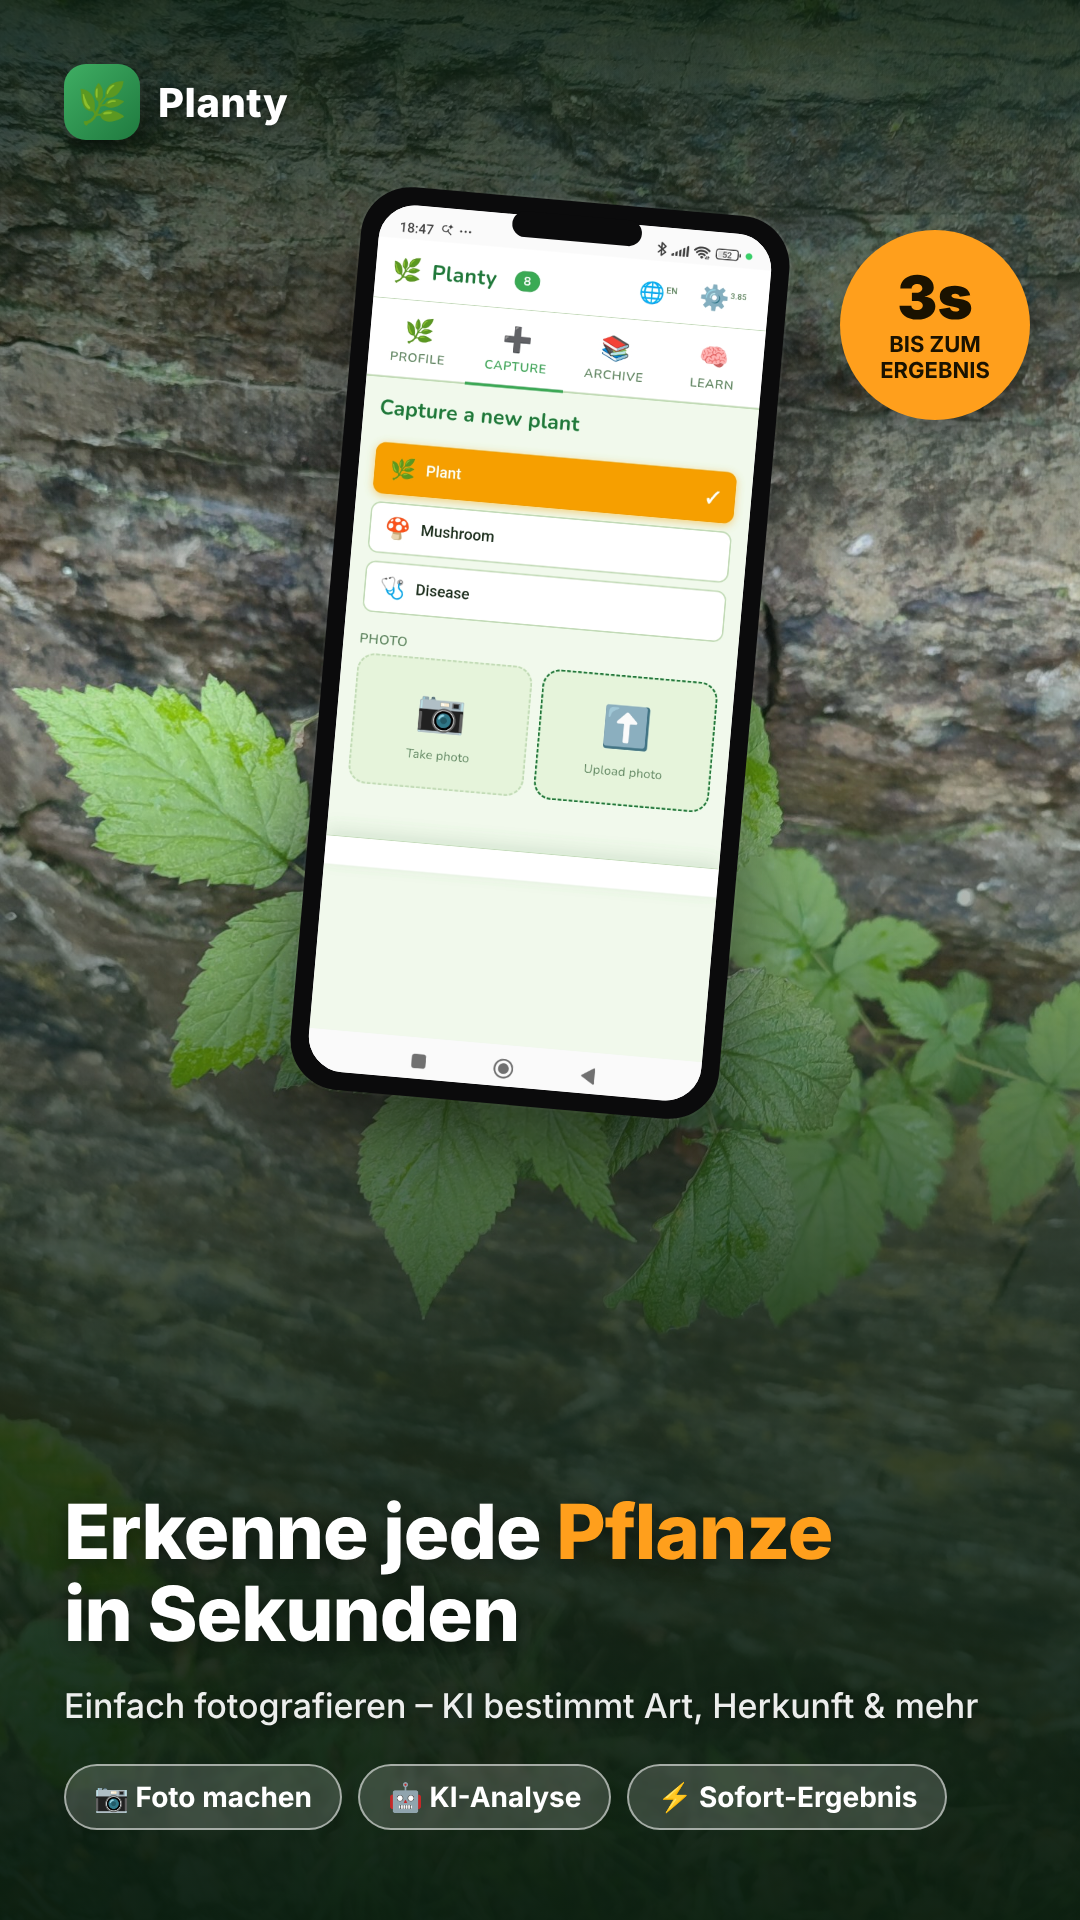
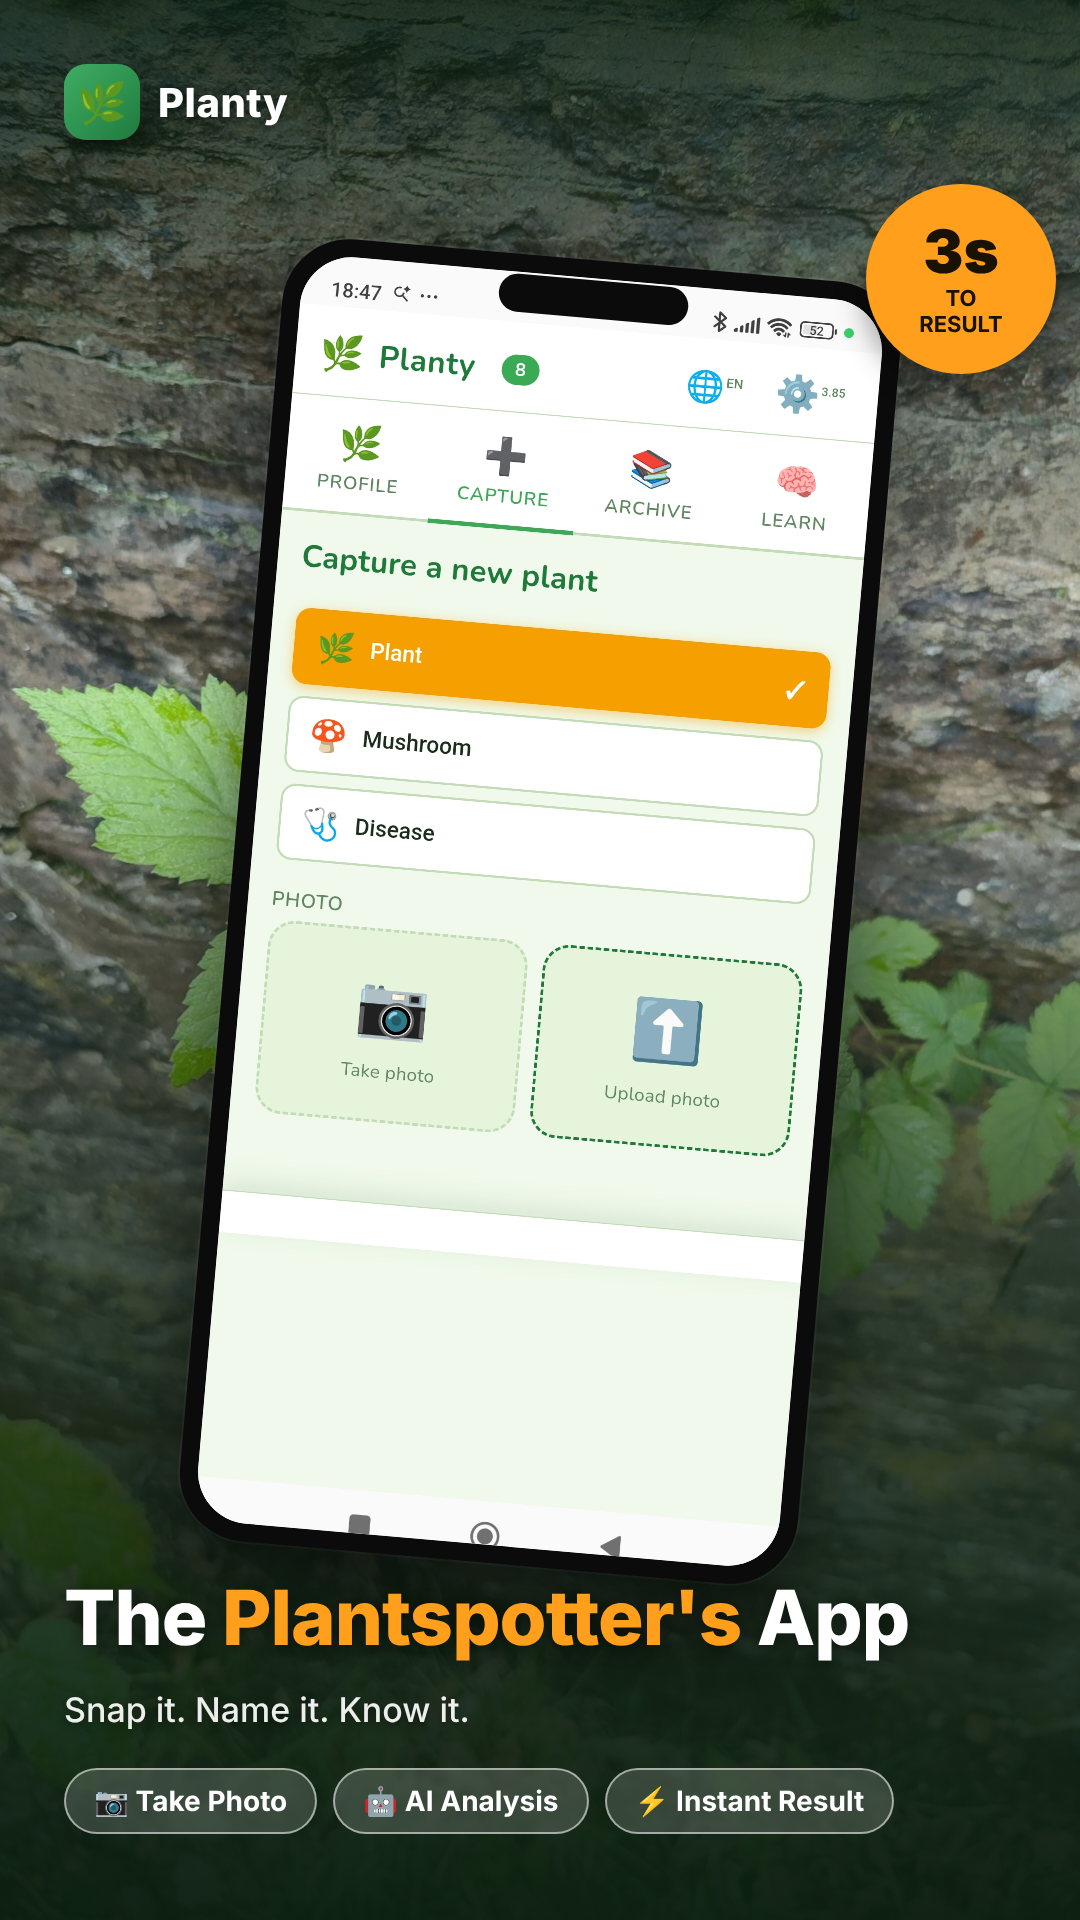
Switch Play Store screenshots to English-only, enlarge device mockups
All 6 slides now in English (hero, three categories, AI fun facts,
mushroom safety, learning, progress). Phones use the larger .phone.big
frame to reduce wasted canvas space. Cropped the daisy/fly-agaric
detail screenshots to remove dialog background bleed-through.

Claude-Session: https://claude.ai/code/session_011nMfd9tr4t6ftk12uzPdFg

diff --git a/store-screenshots/index.html b/store-screenshots/index.html
@@ -189,56 +189,56 @@
   </div>
 </div>
 
-<!-- SLIDE 2 — 3 KATEGORIEN -->
+<!-- SLIDE 2 — 3 CATEGORIES -->
 <div class="slide" id="s2" style="background:linear-gradient(160deg,#1f7a3f 0%, #0f4a24 100%);">
   <div class="brand">
     <div class="logo">🌿</div>
     <div class="name">Planty</div>
   </div>
-  <div style="position:absolute; top:200px; left:64px; right:64px; z-index:4;">
-    <div class="headline" style="font-size:66px;">Eine App.<br><span class="hl">Drei</span> Experten-Bereiche.</div>
+  <div style="position:absolute; top:160px; left:64px; right:64px; z-index:4;">
+    <div class="headline" style="font-size:68px;">One App.<br><span class="hl">Three</span> Expert Areas.</div>
   </div>
-  <div class="catwrap">
-    <div class="catcard">
+  <div class="catwrap" style="margin-top:380px;">
+    <div class="catcard" style="height:980px;">
       <img src="assets/leaves-rock.jpg" style="object-position:center 35%;">
       <div class="catscrim"></div>
-      <div class="cattag"><span class="emoji">🌿</span><span class="label">Pflanzen</span></div>
+      <div class="cattag"><span class="emoji">🌿</span><span class="label">Plants</span></div>
     </div>
-    <div class="catcard">
+    <div class="catcard" style="height:980px;">
       <img src="assets/mushroom-cluster.jpg" style="object-position:center 40%;">
       <div class="catscrim"></div>
-      <div class="cattag"><span class="emoji">🍄</span><span class="label">Pilze</span></div>
+      <div class="cattag"><span class="emoji">🍄</span><span class="label">Mushrooms</span></div>
     </div>
-    <div class="catcard">
+    <div class="catcard" style="height:980px;">
       <img src="assets/mushroom-small.jpg" style="object-position:center 40%;">
       <div class="catscrim"></div>
-      <div class="cattag"><span class="emoji">🩺</span><span class="label">Krankheiten</span></div>
+      <div class="cattag"><span class="emoji">🩺</span><span class="label">Diseases</span></div>
     </div>
   </div>
-  <div class="headline-block" style="bottom:80px;">
-    <div class="sub" style="font-size:36px; font-weight:700;">Bestimmen, lernen &amp; archivieren –<br>alles an einem Ort</div>
+  <div class="headline-block" style="bottom:70px;">
+    <div class="sub" style="font-size:36px; font-weight:700;">Identify, learn &amp; track —<br>all in one place</div>
   </div>
 </div>
 
-<!-- SLIDE 3 — KI + FUN FACTS -->
+<!-- SLIDE 3 — AI + FUN FACTS -->
 <div class="slide" id="s3" style="background:linear-gradient(160deg,#c0442c 0%, #7a1f16 100%);">
   <div class="brand">
     <div class="logo">🌿</div>
     <div class="name">Planty</div>
   </div>
-  <div class="content" style="justify-content:flex-start; align-items:center; padding-top:170px;">
-    <div class="phone small phone-tilt-l">
+  <div class="content" style="justify-content:flex-start; align-items:center; padding-top:252px;">
+    <div class="phone big phone-tilt-l">
       <div class="notch"></div>
-      <div class="screen"><img src="assets/scr-flypilz.jpg"></div>
+      <div class="screen"><img src="assets/scr-daisy-card.jpg"></div>
     </div>
   </div>
-  <div class="headline-block" style="bottom:90px;">
-    <div class="headline">Mehr als nur<br>ein <span class="hl">Name</span></div>
-    <div class="sub">Botanische Illustrationen, spannende Fun Facts und Bestimmungsmerkmale von der KI erklärt</div>
+  <div class="headline-block" style="bottom:86px;">
+    <div class="headline">More Than<br>Just a <span class="hl">Name</span></div>
+    <div class="sub">Botanical illustrations, fun facts &amp; detailed identification features — explained by AI</div>
   </div>
 </div>
 
-<!-- SLIDE 4 — SICHERHEIT -->
+<!-- SLIDE 4 — SAFETY -->
 <div class="slide" id="s4" style="background:#2a1f12;">
   <img class="bg-photo" src="assets/mushroom-cluster.jpg" style="object-position:center 45%;">
   <div class="scrim scrim-top"></div>
@@ -248,56 +248,52 @@
     <div class="name">Planty</div>
   </div>
   <div class="headline-block" style="bottom:120px;">
-    <div class="headline">Sicher Pilze<br>sammeln <span class="hl">lernen</span></div>
-    <div class="sub">Klare Warnhinweise bei Verwechslungsgefahr – für mehr Sicherheit beim Sammeln</div>
+    <div class="headline">Forage Mushrooms<br>with <span class="hl">Confidence</span></div>
+    <div class="sub">Clear safety warnings when confusion risk is high — because mushroom hunting deserves caution</div>
     <div class="warn-box">
-      <div class="wtitle">⚠ Nur Bestimmungswahrscheinlichkeit</div>
-      <div class="wtext">Keine Essensempfehlung! Bei Zweifel immer Pilzsachverständige konsultieren.</div>
+      <div class="wtitle">⚠ Identification Probability Only</div>
+      <div class="wtext">Not a food recommendation! When in doubt, always consult a mushroom expert.</div>
     </div>
   </div>
 </div>
 
-<!-- SLIDE 5 — LERNEN / GAMIFICATION -->
+<!-- SLIDE 5 — LEARNING / GAMIFICATION -->
 <div class="slide" id="s5" style="background:linear-gradient(160deg,#2a8f54 0%, #0f4a24 100%);">
   <div class="brand">
     <div class="logo">🌿</div>
     <div class="name">Planty</div>
   </div>
-  <div class="content" style="justify-content:flex-start; align-items:center; padding-top:210px;">
-    <div class="phone small phone-tilt-r">
+  <div class="content" style="justify-content:flex-start; align-items:center; padding-top:252px;">
+    <div class="phone big phone-tilt-r">
       <div class="notch"></div>
       <div class="screen"><img src="assets/scr-learn.jpg"></div>
     </div>
   </div>
-  <div class="badge-circle" style="top:250px; left:50px; background:#fff; color:var(--green-dark);">
+  <div class="badge-circle" style="top:184px; left:24px; background:#fff; color:var(--green-dark);">
     <div class="num">🔥2</div>
-    <div class="lbl">TAGE<br>STREAK</div>
+    <div class="lbl">DAY<br>STREAK</div>
   </div>
-  <div class="headline-block" style="bottom:90px;">
-    <div class="headline">Werde zum<br><span class="hl">Pflanzen-Profi</span></div>
-    <div class="sub">Spielerisch lernen mit Karteikarten aus deinen eigenen Funden – Tag für Tag</div>
+  <div class="headline-block" style="bottom:86px;">
+    <div class="headline">Turn Every Find<br>Into <span class="hl">Knowledge</span></div>
+    <div class="sub">Flashcard-style learning from your own discoveries — build a streak, master what you've found</div>
   </div>
 </div>
 
-<!-- SLIDE 6 — ARCHIV + MEHRSPRACHIG -->
+<!-- SLIDE 6 — PROGRESS -->
 <div class="slide" id="s6" style="background:linear-gradient(160deg,#1f7a3f 0%, #123d22 100%);">
   <div class="brand">
     <div class="logo">🌿</div>
     <div class="name">Planty</div>
   </div>
-  <div class="content" style="justify-content:flex-start; align-items:center; padding-top:170px;">
-    <div class="phone small phone-tilt-l">
+  <div class="content" style="justify-content:flex-start; align-items:center; padding-top:252px;">
+    <div class="phone big phone-tilt-l">
       <div class="notch"></div>
       <div class="screen"><img src="assets/scr-profile.jpg"></div>
     </div>
   </div>
-  <div class="headline-block" style="bottom:90px;">
-    <div class="headline">Dein persönliches<br><span class="hl">Pflanzen-Tagebuch</span></div>
-    <div class="sub">Jeder Fund wird gespeichert, dein Wissen wächst mit – jetzt auch komplett auf Englisch</div>
-    <div class="flagrow">
-      <div class="flagchip"><span class="flag">🇩🇪</span> Deutsch</div>
-      <div class="flagchip"><span class="flag">🇬🇧</span> English</div>
-    </div>
+  <div class="headline-block" style="bottom:86px;">
+    <div class="headline">Watch Your <span class="hl">Plant<br>Knowledge</span> Grow</div>
+    <div class="sub">Every identification builds your personal collection and knowledge score over time</div>
   </div>
 </div>
 

diff --git a/store-screenshots/render.py b/store-screenshots/render.py
@@ -7,8 +7,7 @@ OUT = os.path.join(BASE, "out")
 os.makedirs(OUT, exist_ok=True)
 
 slides = [
-    ("s1-de", "01-hero-de.png"),
-    ("s1-en", "01-hero-en.png"),
+    ("s3", "03-ai-funfacts.png"),
 ]
 
 with sync_playwright() as p:
